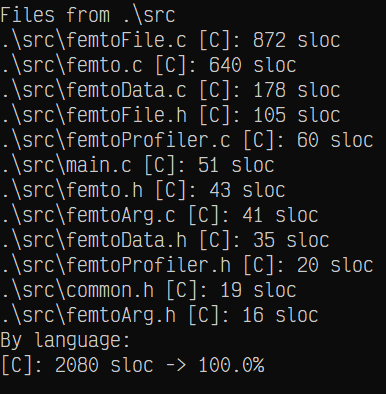
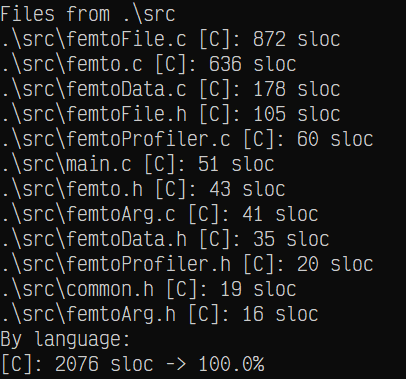
Refactor

Changed region(s): [[0.0, 0.0, 0.9637, 0.9868], [0.4041, 0.8997, 0.6839, 0.9868]]

diff --git a/src/femto.c b/src/femto.c
@@ -118,6 +118,7 @@ bool femto_loop(femtoData_t * restrict peditor)
 		{
 			boolPut(keybuffer, key, true);
 			wchar_t tempstr[MAX_STATUS];
+			bool draw = true;
 
 			if (wVirtKey == VK_ESCAPE || key == sac_Ctrl_Q)	// Exit on Escape or Ctrl+Q
 			{
@@ -141,7 +142,7 @@ bool femto_loop(femtoData_t * restrict peditor)
 					pfile->eolSeq = EOL_CR;
 					break;
 				default:
-					femtoData_statusDraw(peditor, L"Unknown EOL combination!", NULL);
+					swprintf_s(tempstr, MAX_STATUS, L"Unknown EOL combination!");
 					done = false;
 				}
 				if (done)
@@ -153,7 +154,6 @@ bool femto_loop(femtoData_t * restrict peditor)
 						(pfile->eolSeq & EOL_CR) ? L"CR" : L"",
 						(pfile->eolSeq & EOL_LF) ? L"LF" : L""
 					);
-					femtoData_statusDraw(peditor, tempstr, NULL);
 				}
 
 				waitingEnc = false;
@@ -163,7 +163,7 @@ bool femto_loop(femtoData_t * restrict peditor)
 				const wchar_t * res;
 				if ((res = femtoFile_read(pfile)) != NULL)
 				{
-					femtoData_statusDraw(peditor, res, NULL);
+					swprintf_s(tempstr, MAX_STATUS, res);
 				}
 				else
 				{
@@ -174,7 +174,6 @@ bool femto_loop(femtoData_t * restrict peditor)
 						(pfile->eolSeq & EOL_CR) ? L"CR" : L"",
 						(pfile->eolSeq & EOL_LF) ? L"LF" : L""
 					);
-					femtoData_statusDraw(peditor, tempstr, NULL);
 				}
 				femtoData_refresh(peditor);
 			}
@@ -184,32 +183,30 @@ bool femto_loop(femtoData_t * restrict peditor)
 				switch (saved)
 				{
 				case writeRes_nothingNew:
-					femtoData_statusDraw(peditor, L"Nothing new to save", NULL);
+					swprintf_s(tempstr, MAX_STATUS, L"Nothing new to save");
 					break;
 				case writeRes_openError:
-					femtoData_statusDraw(peditor, L"File open error!", NULL);
+					swprintf_s(tempstr, MAX_STATUS, L"File open error!");
 					break;
 				case writeRes_writeError:
-					femtoData_statusDraw(peditor, L"File is write-protected!", NULL);
+					swprintf_s(tempstr, MAX_STATUS, L"File is write-protected!");
 					break;
 				case writeRes_memError:
-					femtoData_statusDraw(peditor, L"Memory allocation error!", NULL);
+					swprintf_s(tempstr, MAX_STATUS, L"Memory allocation error!");
 					break;
 				default:
 					swprintf_s(tempstr, MAX_STATUS, L"Wrote %d bytes.", saved);
-					femtoData_statusDraw(peditor, tempstr, NULL);
 				}
 			}
 			else if (boolGet(keybuffer, sac_Ctrl_E) && !boolGet(prevkeybuffer, sac_Ctrl_E))
 			{
 				waitingEnc = true;
-				femtoData_statusDraw(peditor, L"Waiting for EOL combination (F = CRLF, L = LF, C = CR)...", NULL);
+				swprintf_s(tempstr, MAX_STATUS, L"Waiting for EOL combination (F = CRLF, L = LF, C = CR)...");
 			}
 			// Normal keys
 			else if (key > sac_last_code)
 			{
 				swprintf_s(tempstr, MAX_STATUS, L"'%c' #%u", key, keyCount);
-				femtoData_statusDraw(peditor, tempstr, NULL);
 				if (femtoFile_addNormalCh(pfile, key))
 				{
 					femtoData_refresh(peditor);
@@ -218,7 +215,6 @@ bool femto_loop(femtoData_t * restrict peditor)
 			// Special keys
 			else
 			{
-				bool draw = true;
 				switch (wVirtKey)
 				{
 				case VK_TAB:
@@ -306,15 +302,14 @@ bool femto_loop(femtoData_t * restrict peditor)
 					draw = false;
 				}
 
-				if (draw)
-				{
-					femtoData_statusDraw(peditor, tempstr, NULL);
-				}
-
 				if (femtoFile_addSpecialCh(pfile, peditor->scrbuf.h, wVirtKey))
 				{
 					femtoData_refresh(peditor);
 				}
+			}
+			if (draw)
+			{
+				femtoData_statusDraw(peditor, tempstr, NULL);
 			}
 		}
 		else

diff --git a/README.md b/README.md
@@ -10,7 +10,7 @@ It is a bigger more feature-rich version of my other console text editor [atto](
 It is also written in vanilla C + Win32 Console API - it's designed to be used solely on Microsoft Windows.
 It has been compiled with MinGW GCC.
 
-Currently, my other tool [slocWin32](https://github.com/makuke1234/slocWin32) reports 2080 source code lines (excluding whitespace & comments):
+Currently, my other tool [slocWin32](https://github.com/makuke1234/slocWin32) reports 2076 source code lines (excluding whitespace & comments):
 
 ![SLOC](./images/sloc.png)
 
@@ -95,7 +95,7 @@ Currently, my other tool [slocWin32](https://github.com/makuke1234/slocWin32) re
 ## Last key shown on status bar with respective repeat count
 ![Key frequency](./images/keyFreq.png)
 
-## Saving was successful, file size is now 48 bytes
+## Saving was successful, file size is now 140 bytes
 ![!Saving success](./images/savingSuc.png)
 
 
@@ -117,6 +117,7 @@ Currently, my other tool [slocWin32](https://github.com/makuke1234/slocWin32) re
     * [ ] Optional tabs-to-spaces, tab width adjustment
     * [ ] 'Raw editing'/'saving later to a file' support
     * [x] Tweak keypress status messages
+	* [x] Refactor/optimise codebase using same optimisations applied to [atto](https://github.com/makuke1234/atto)
 
 * 1.0
     * [x] Theoretical multi-file support
